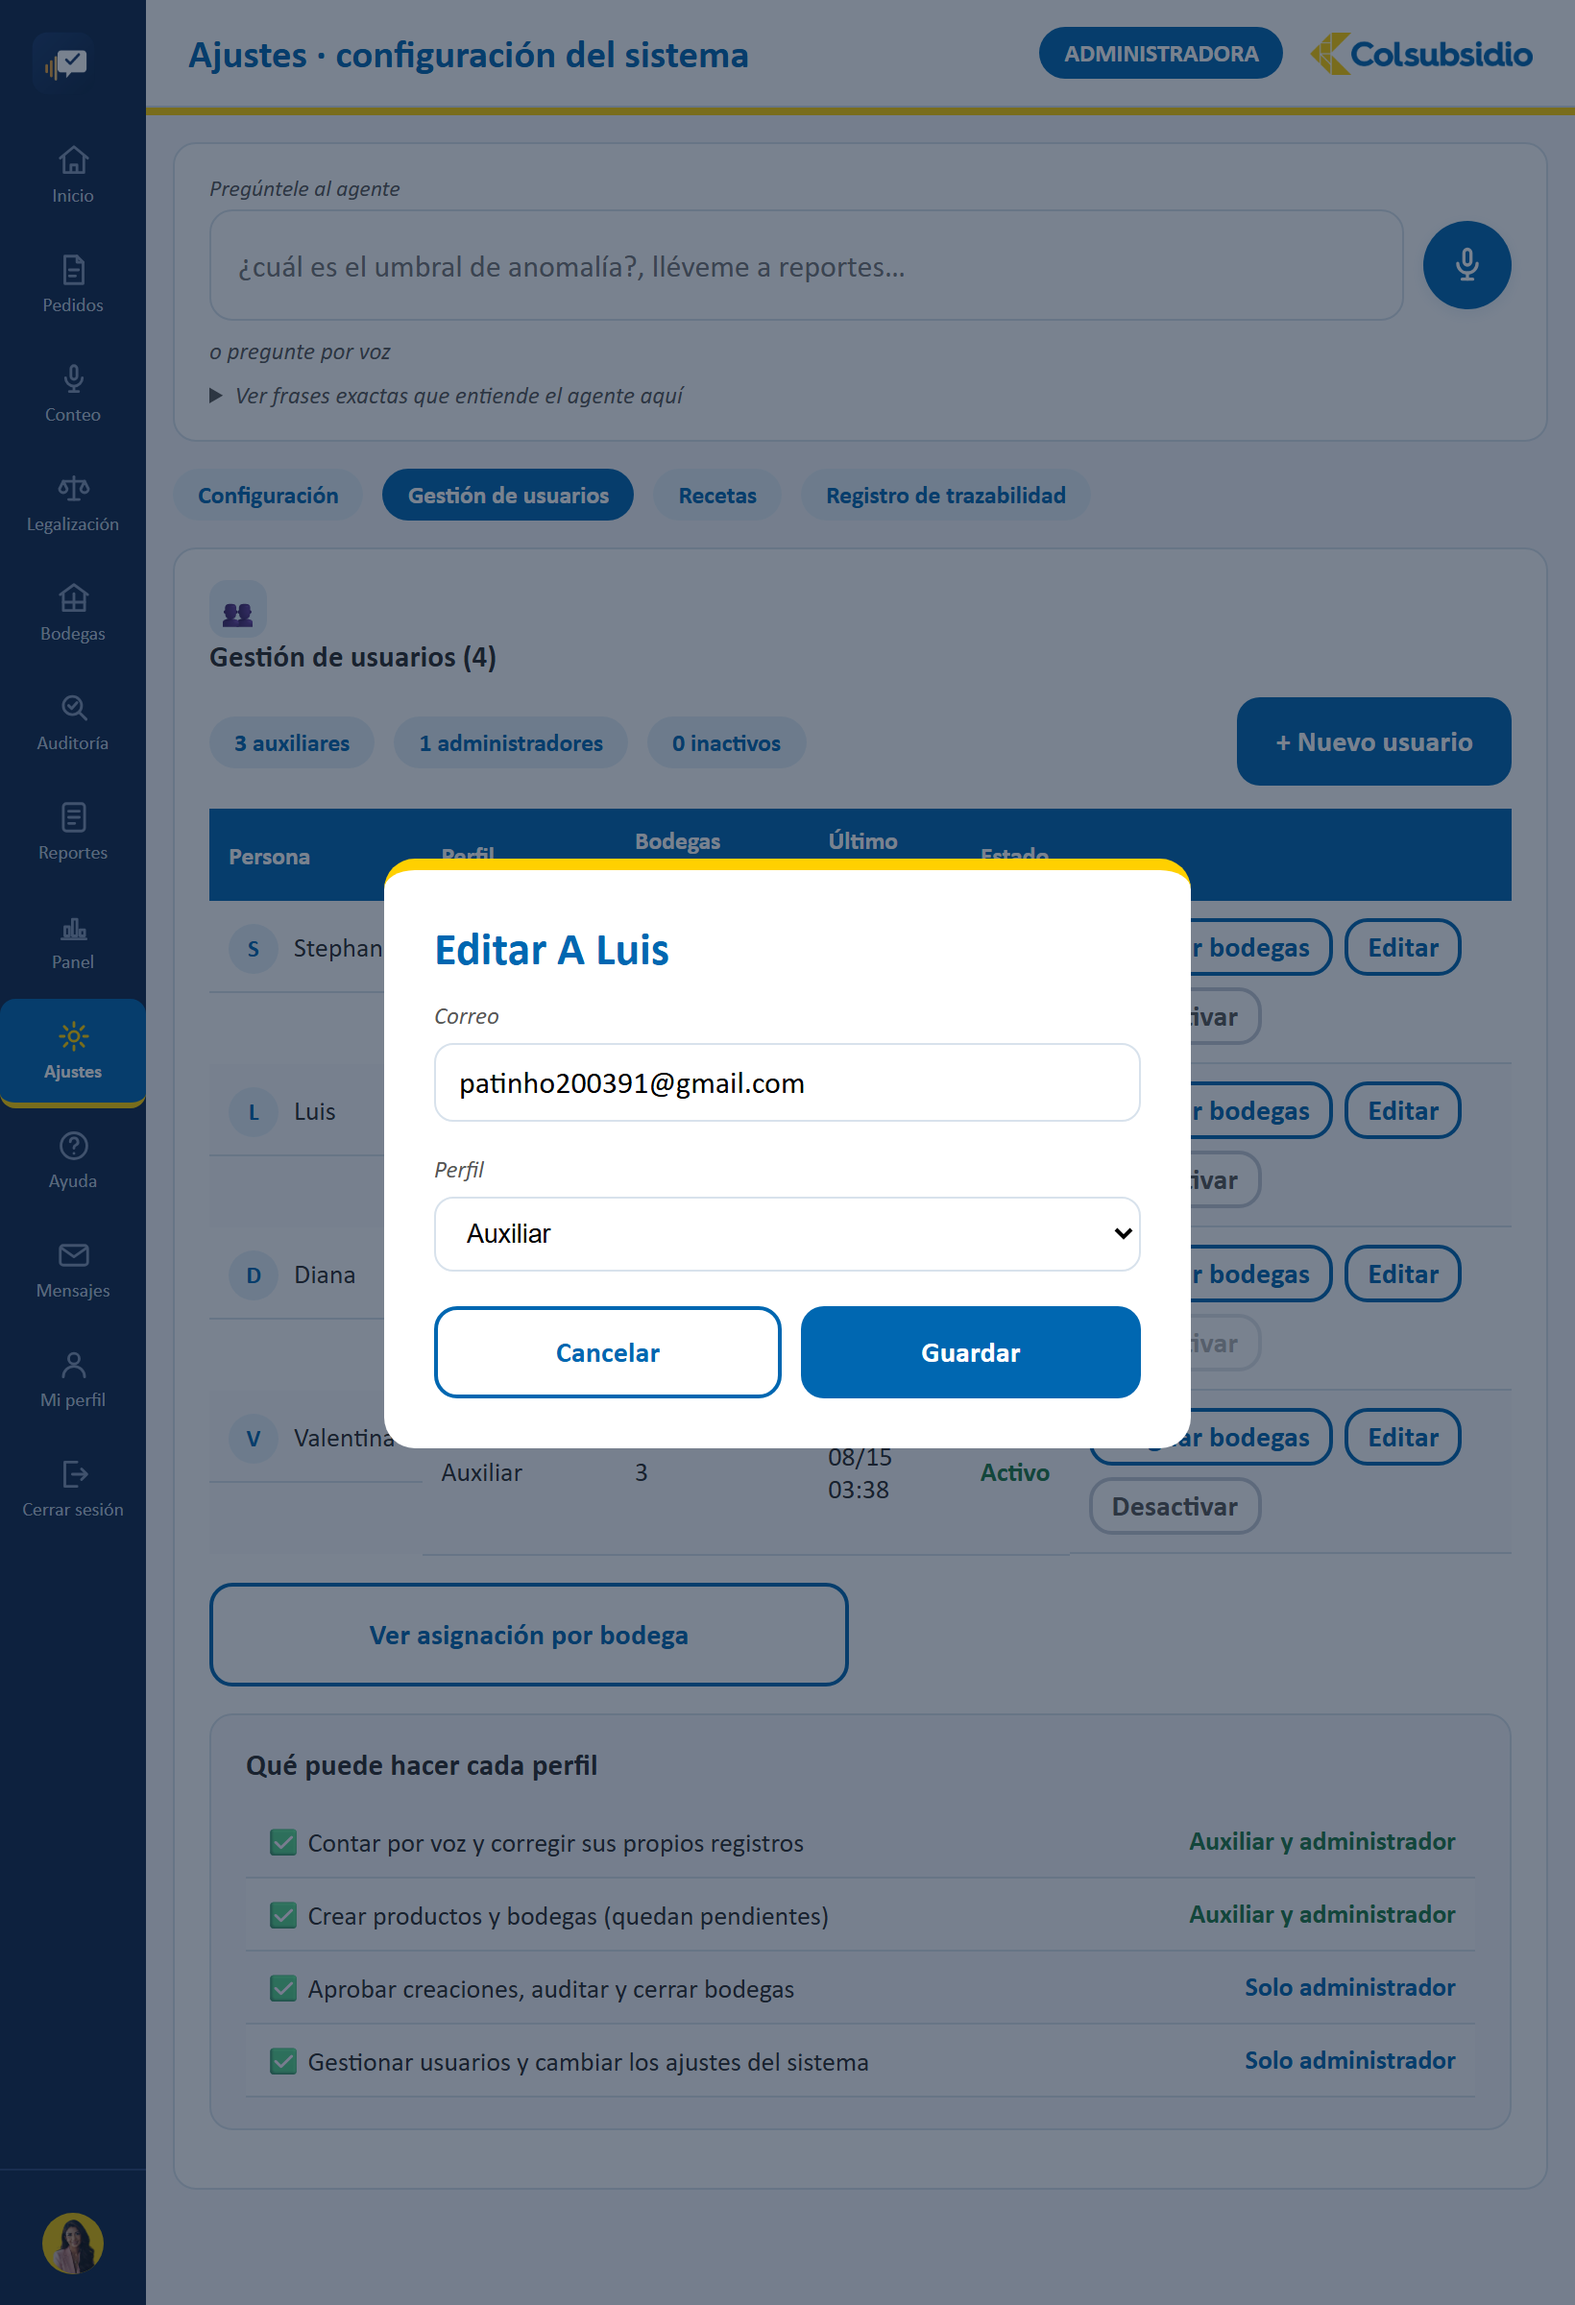
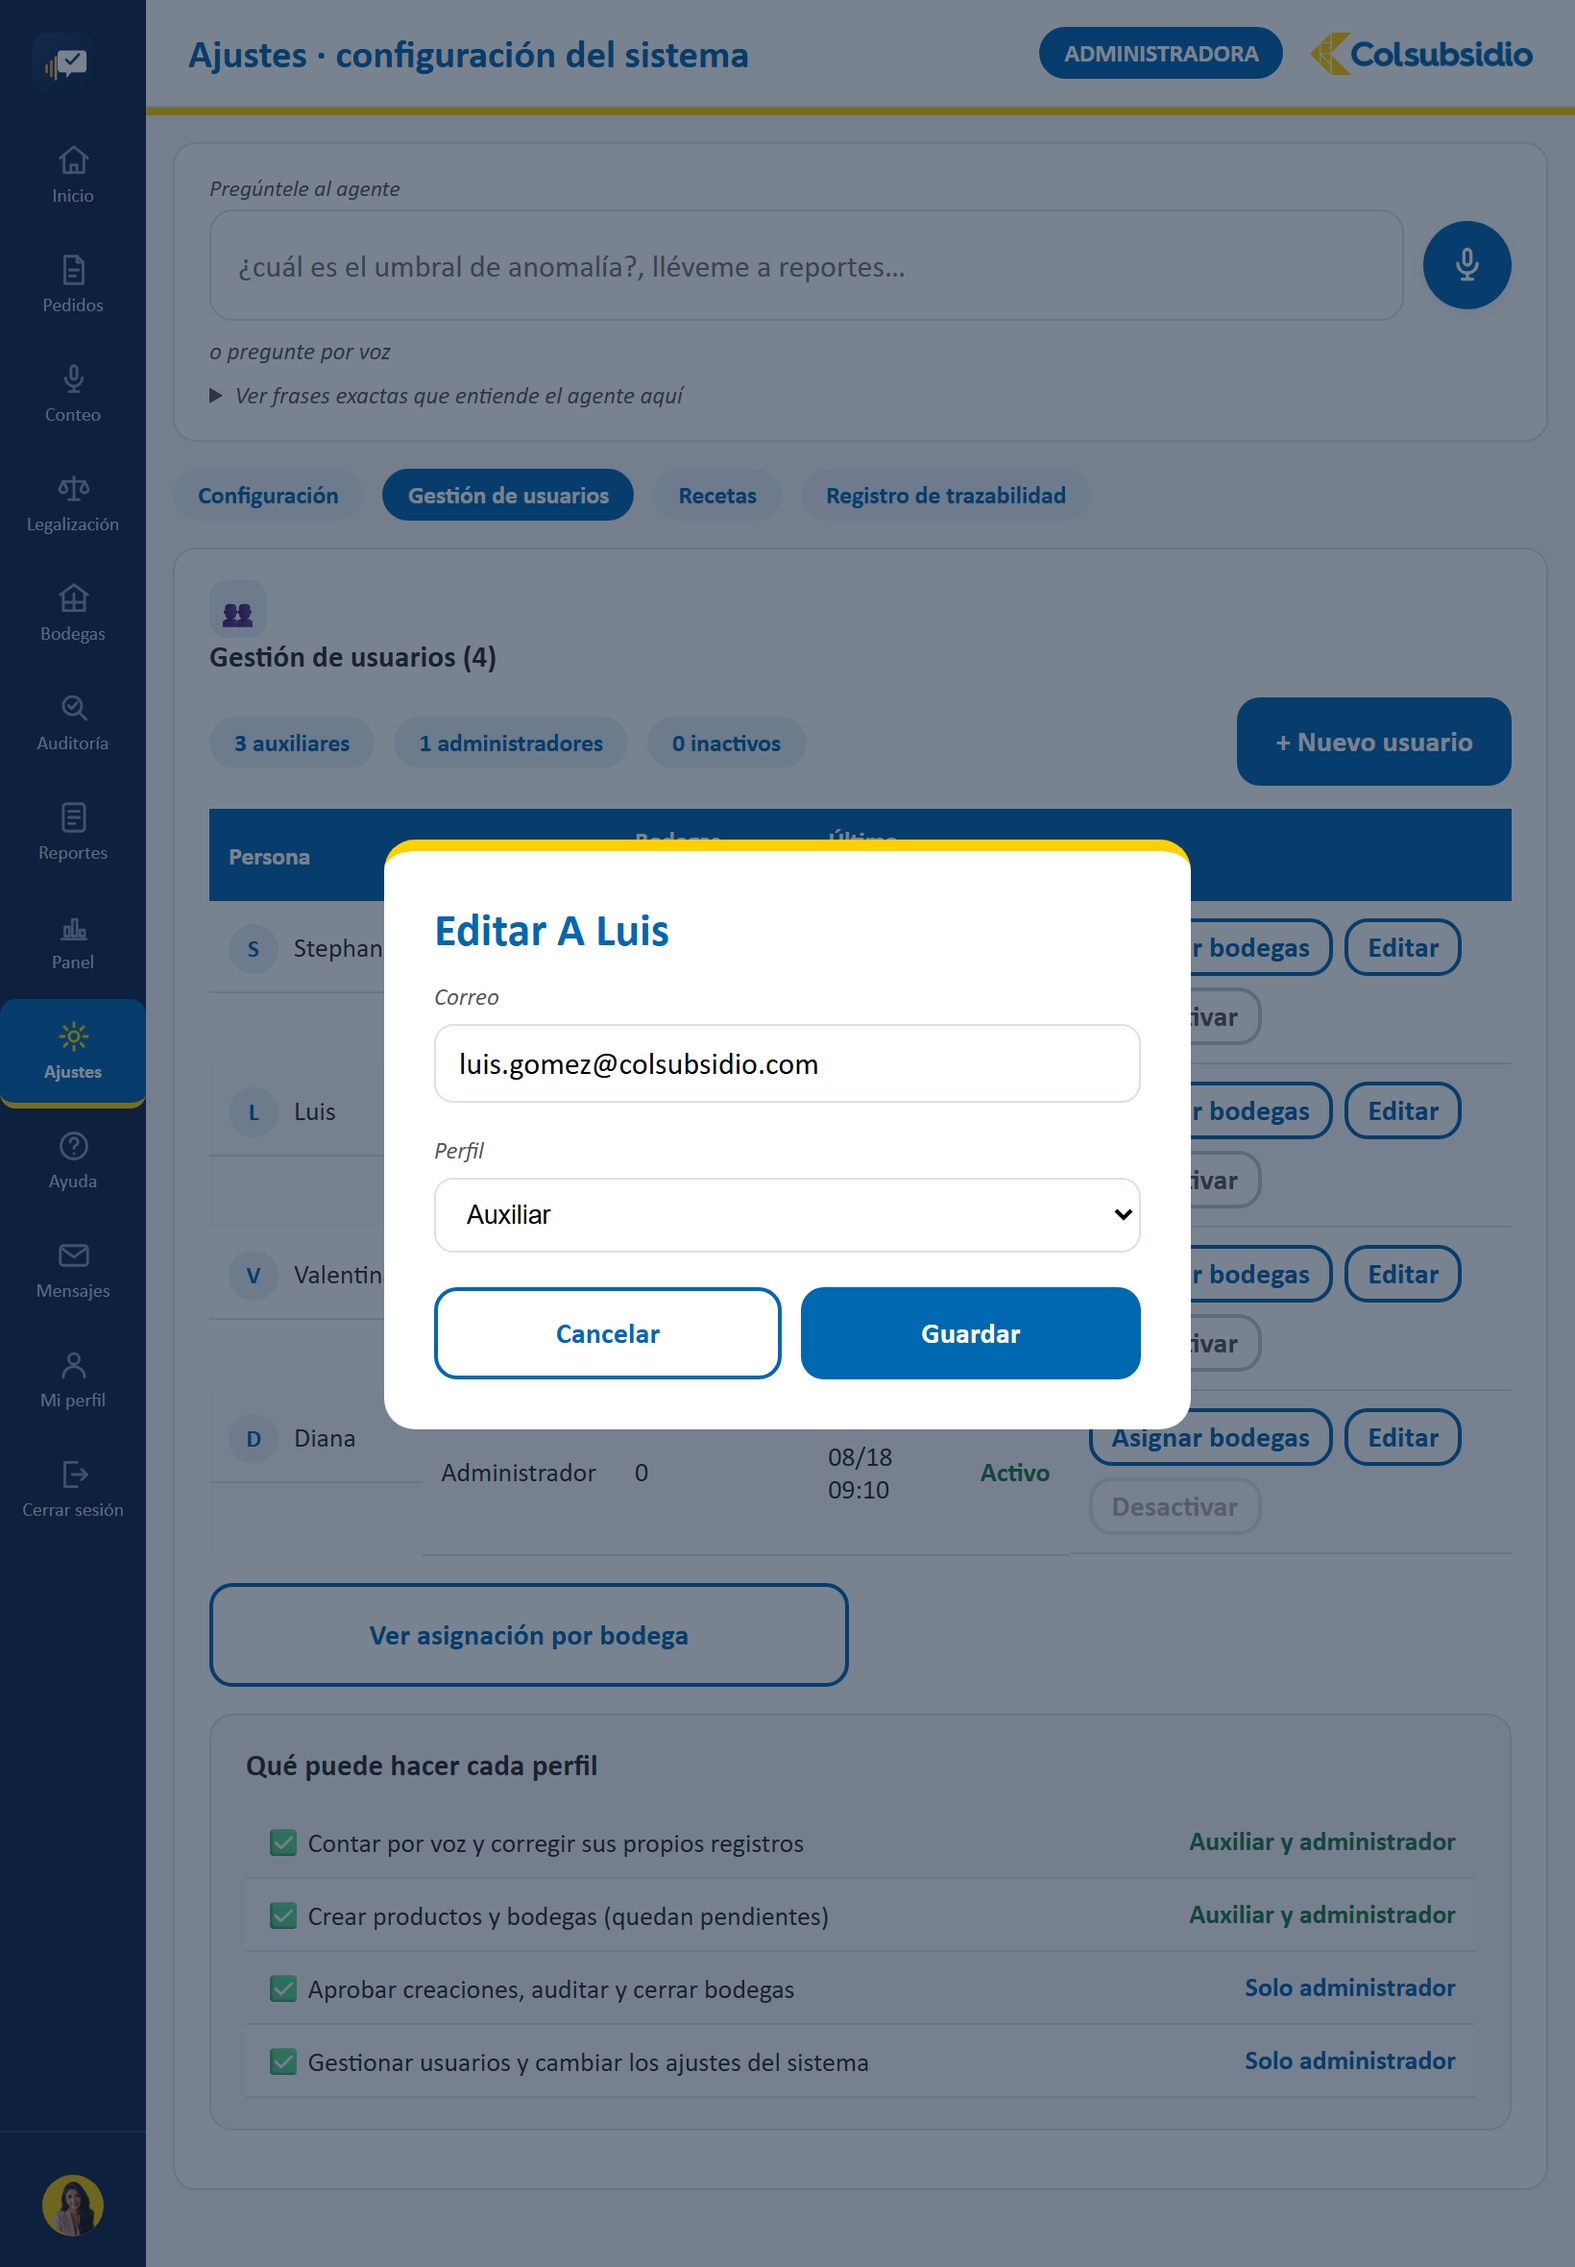
Capturas del envio real de mensaje al administrador (app + correo recibido)
Agrega mensajes-enviado-por-auxiliar.png y correo-recibido-mensaje-admin.png,
ambas de un envio real de punta a punta verificado en Gmail. De paso se
encontro que Luis y Valentina tenian su correo personal real expuesto en el
campo "correo" de produccion (mismo problema ya corregido para Diana) - se
corrigio con la propia UI de Ajustes y se recapturo ajustes-editar-usuario.png
sin el dato real. Se retira correo_no-visible.png, que quedo redundante.

diff --git a/docs/capturas/manual/INDICE.md b/docs/capturas/manual/INDICE.md
@@ -5,7 +5,7 @@ contra producción (`https://cuentavoz.onrender.com`), con datos reales de
 la demo — ninguna es un mockup ni tiene datos inventados. Cada imagen está
 recortada a su alto real de contenido (sin recortes a mitad de pantalla).
 
-Son 59 capturas en total (14 vistas de menú + 45 sub-pantallas, pestañas
+Son 61 capturas en total (14 vistas de menú + 47 sub-pantallas, pestañas
 y modales), repartidas en dos carpetas para no duplicar fotos iguales:
 
 - **`docs/capturas/tablet/`** — las 14 pantallas de nivel de menú (una por
@@ -64,6 +64,8 @@ y modales), repartidas en dos carpetas para no duplicar fotos iguales:
 | `ayuda-reportar-problema.png` | **Ayuda** → botón **Reportar un problema** | `Ayuda.jsx`, `<Dialogo>` `pedirDetalle` |
 | `ayuda-escribir-admin.png` | **Ayuda** → botón **Escribirle al administrador** (solo visible para perfil auxiliar — capturada como `luis`, no como `diana`) | `Ayuda.jsx`, `<Dialogo>` `escribiendoAdmin` |
 | `mensajes-responder.png` | **Mensajes** → botón **Responder** de un mensaje | `Mensajes.jsx`, `<Dialogo>` `respondiendoId` |
+| `mensajes-enviado-por-auxiliar.png` | **Mensajes** → bandeja de un auxiliar tras enviarle un mensaje real al administrador (envío real de principio a fin) | `Mensajes.jsx`, vista `MIS MENSAJES` |
+| `correo-recibido-mensaje-admin.png` | El correo real que le llega al administrador cuando un auxiliar usa **Escribirle al administrador** (contenido verbatim del mensaje efectivamente recibido, vía Brevo/EmailJS) | `backend/main.py` → `_enviar_correo_real`, `frontend/src/correoAdmin.js` |
 | `legalizacion-ajustar-voz.png` | **Legalización** → botón **Ajustar por voz** | `Legalizacion.jsx`, `<Dialogo>` `pedirAjuste` |
 | `auditoria-alerta-detalle.png` | **Auditoría** → *Bandeja de alertas* → botón **Ver** de una alerta | `Auditoria.jsx`, `<Dialogo>` `verDetalle` (dentro de `TabAlertas`) |
 | `auditoria-teclado.png` | **Auditoría** → recuento ciego activo → botón **Teclado** | `Auditoria.jsx`, `<Dialogo>` `mostrarDictado` |
